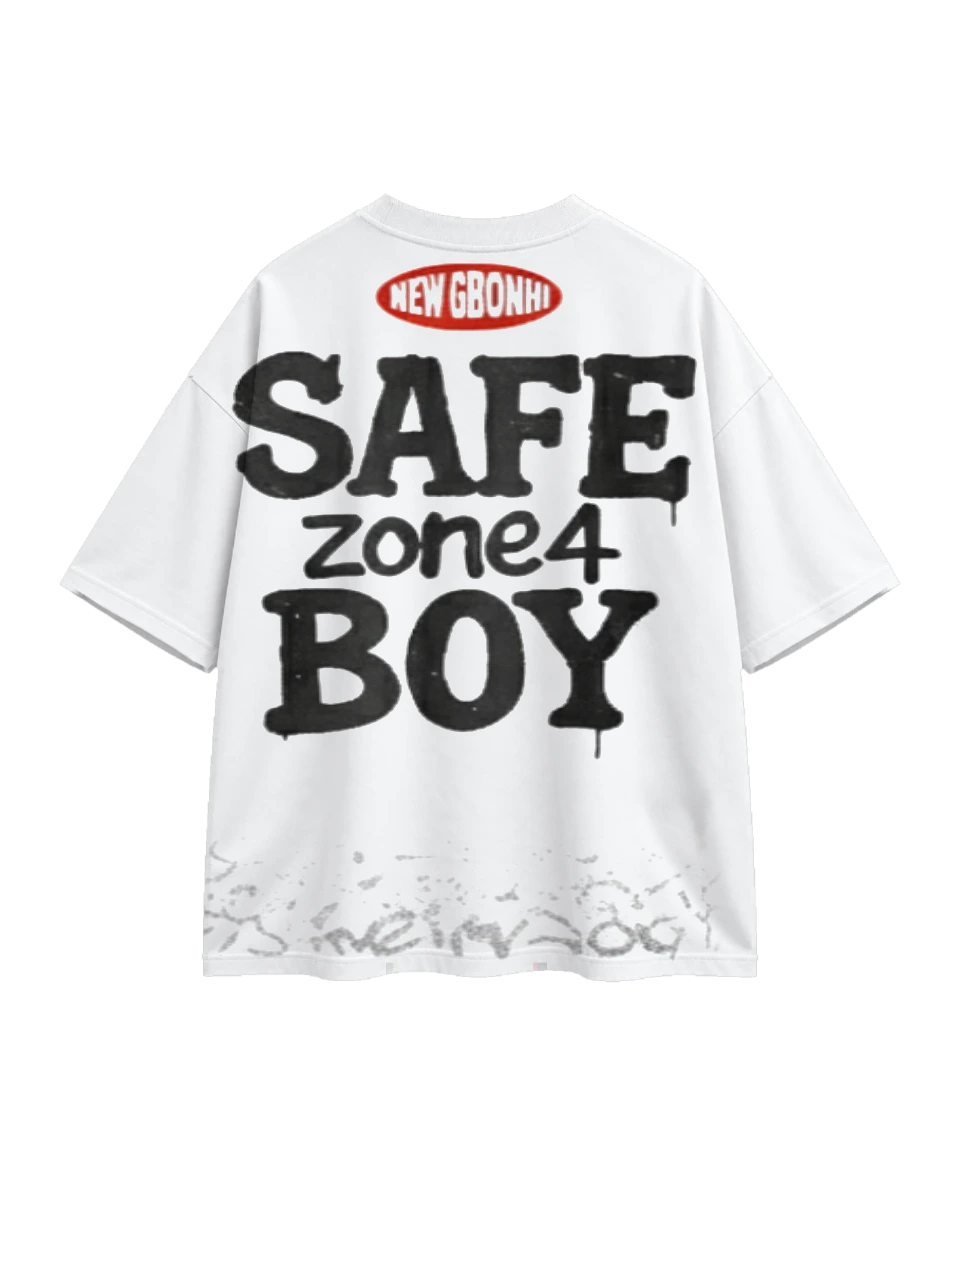
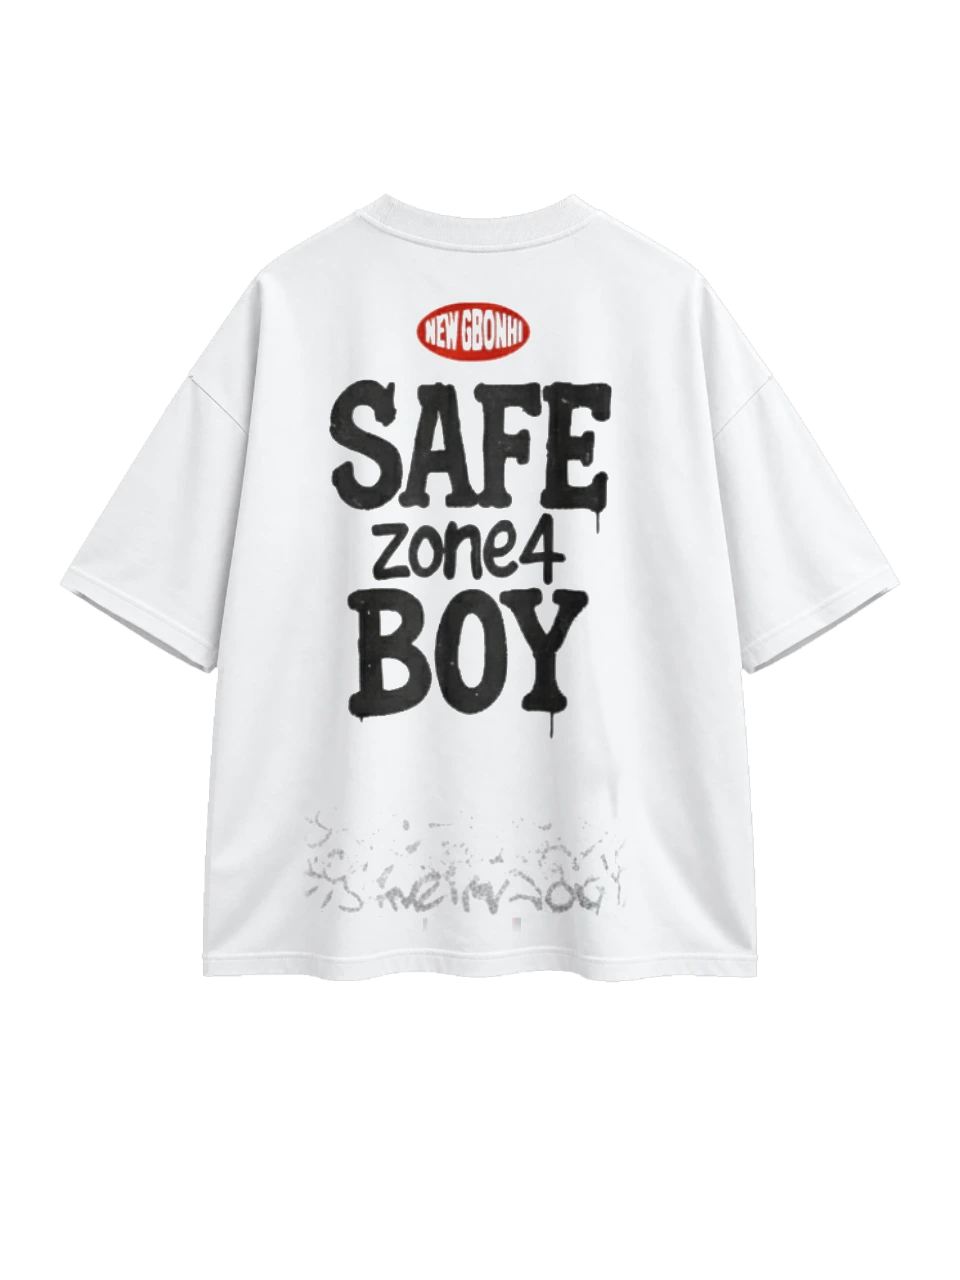
Fit Safe collection artwork to cotton mockups without stretching

Changed region(s): [[0.2188, 0.1875, 0.75, 0.5938], [0.2188, 0.6562, 0.7188, 0.75]]

diff --git a/src/components/garmentPrint.js b/src/components/garmentPrint.js
@@ -5,45 +5,49 @@ import * as THREE from 'three';
 export function applyOriginalPrint(material, originalMap, piece) {
   const [left, top, right, bottom] = piece.printRegion;
   material.onBeforeCompile = shader => {
+    const [scaleX, scaleY] = piece.printScale || [1, 1];
+    const [centerX, centerY] = piece.printCenter || [.5, .5];
+    shader.uniforms.printPlacement = { value: new THREE.Vector4(scaleX, scaleY, centerX, 1 - centerY) };
     shader.uniforms.fabricPoint = { value: new THREE.Vector3(...(piece.fabricPoint || [0, 0]), piece.fabricPoint ? 1 : 0) };
     shader.uniforms.originalPrint = { value: originalMap };
     shader.uniforms.printRect = { value: new THREE.Vector4(left, 1 - bottom, right, 1 - top) };
     shader.uniforms.whiteCotton = { value: piece.whiteFabric ? 1 : 0 };
     shader.uniforms.cleanWhitePrint = { value: piece.cleanWhitePrint ? 1 : 0 };
     shader.uniforms.posterPrint = { value: piece.posterPrint || piece.product?.slug === 'arw-film-dopamine-tee' ? 1 : 0 };
-    shader.fragmentShader = 'uniform vec3 fabricPoint;\nuniform sampler2D originalPrint;\nuniform vec4 printRect;\nuniform float whiteCotton;\nuniform float cleanWhitePrint;\nuniform float posterPrint;\n' + shader.fragmentShader;
+    shader.fragmentShader = 'uniform vec4 printPlacement;\nuniform vec3 fabricPoint;\nuniform sampler2D originalPrint;\nuniform vec4 printRect;\nuniform float whiteCotton;\nuniform float cleanWhitePrint;\nuniform float posterPrint;\n' + shader.fragmentShader;
     shader.fragmentShader = shader.fragmentShader.replace('#include <map_fragment>', `
       #ifdef USE_MAP
         vec4 cotton = texture2D(map, vMapUv);
-        vec4 originalSample = texture2D(originalPrint, vMapUv);
+        vec2 printUv = (vMapUv - printPlacement.zw) / printPlacement.xy + vec2(.5);
+        vec4 originalSample = texture2D(originalPrint, printUv);
         vec3 sourcePrint = originalSample.rgb;
-        vec3 fabricLeft = texture2D(originalPrint, vec2(.22, vMapUv.y)).rgb;
-        vec3 fabricRight = texture2D(originalPrint, vec2(.78, vMapUv.y)).rgb;
-        vec3 originalCotton = mix(fabricLeft, fabricRight, smoothstep(.22, .78, vMapUv.x));
+        vec3 fabricLeft = texture2D(originalPrint, vec2(.22, printUv.y)).rgb;
+        vec3 fabricRight = texture2D(originalPrint, vec2(.78, printUv.y)).rgb;
+        vec3 originalCotton = mix(fabricLeft, fabricRight, smoothstep(.22, .78, printUv.x));
         originalCotton = mix(originalCotton, texture2D(originalPrint, vec2(fabricPoint.x, 1. - fabricPoint.y)).rgb, fabricPoint.z);
-        if (cleanWhitePrint > .5 && vMapUv.y < .28) {
-          vec3 nearby = max(sourcePrint, texture2D(originalPrint, vMapUv + vec2(.025, 0.)).rgb);
-          nearby = max(nearby, texture2D(originalPrint, vMapUv - vec2(.025, 0.)).rgb);
-          nearby = max(nearby, texture2D(originalPrint, vMapUv + vec2(0., .025)).rgb);
-          nearby = max(nearby, texture2D(originalPrint, vMapUv - vec2(0., .025)).rgb);
-          originalCotton = mix(nearby, originalCotton, smoothstep(.18, .28, vMapUv.y));
+        if (cleanWhitePrint > .5 && printUv.y < .28) {
+          vec3 nearby = max(sourcePrint, texture2D(originalPrint, printUv + vec2(.025, 0.)).rgb);
+          nearby = max(nearby, texture2D(originalPrint, printUv - vec2(.025, 0.)).rgb);
+          nearby = max(nearby, texture2D(originalPrint, printUv + vec2(0., .025)).rgb);
+          nearby = max(nearby, texture2D(originalPrint, printUv - vec2(0., .025)).rgb);
+          originalCotton = mix(nearby, originalCotton, smoothstep(.18, .28, printUv.y));
         }
         vec3 onWhite = cotton.rgb * sourcePrint / max(originalCotton, vec3(.12));
         vec3 onBlack = max(vec3(0.), cotton.rgb + sourcePrint - originalCotton);
-        vec2 inner = smoothstep(printRect.xy, printRect.xy + vec2(.025), vMapUv);
-        vec2 outer = vec2(1.) - smoothstep(printRect.zw - vec2(.025), printRect.zw, vMapUv);
+        vec2 inner = smoothstep(printRect.xy, printRect.xy + vec2(.025), printUv);
+        vec2 outer = vec2(1.) - smoothstep(printRect.zw - vec2(.025), printRect.zw, printUv);
         float decal = inner.x * inner.y * outer.x * outer.y;
         vec3 darkInk = originalCotton - sourcePrint;
         float whiteInk = smoothstep(.04, .14, max(darkInk.r, max(darkInk.g, darkInk.b)));
         // The archive pairs contain deep sleeve shadows. Above the faded hem
         // print, only their dark/red ink should transfer onto the new cotton.
         float cleanInk = smoothstep(.18, .35, max(darkInk.r, max(darkInk.g, darkInk.b)));
-        whiteInk = mix(whiteInk, cleanInk, cleanWhitePrint * smoothstep(.18, .28, vMapUv.y));
+        whiteInk = mix(whiteInk, cleanInk, cleanWhitePrint * smoothstep(.18, .28, printUv.y));
         float chroma = max(sourcePrint.r, max(sourcePrint.g, sourcePrint.b)) - min(sourcePrint.r, min(sourcePrint.g, sourcePrint.b));
         float lightInk = max(sourcePrint.r - originalCotton.r, max(sourcePrint.g - originalCotton.g, sourcePrint.b - originalCotton.b));
         float blackInk = max(smoothstep(.004, .016, chroma), smoothstep(.012, .045, lightInk));
         float ink = mix(blackInk, whiteInk, whiteCotton);
-        float poster = step(.315, vMapUv.x) * step(vMapUv.x, .676) * step(.25, vMapUv.y) * step(vMapUv.y, .773);
+        float poster = step(.315, printUv.x) * step(printUv.x, .676) * step(.25, printUv.y) * step(printUv.y, .773);
         decal *= max(ink, posterPrint * poster) * smoothstep(.90, .99, originalSample.a);
         diffuseColor *= vec4(mix(cotton.rgb, mix(onBlack, onWhite, whiteCotton), decal), cotton.a);
       #endif

diff --git a/scripts/catalog-renderer.js b/scripts/catalog-renderer.js
@@ -50,7 +50,14 @@ window.renderCatalogView = async id => {
   const width = 1.32, height = width / fabric.aspect;
   const geometry = new THREE.PlaneGeometry(width, height);
   const material = new THREE.MeshBasicMaterial({ map: fabric.map, transparent: true, toneMapped: false });
-  applyOriginalPrint(material, original.map, view);
+  // Archive mockups are tall and narrow. Preserve the physical proportions of
+  // their original ink instead of stretching it to the oversized cotton UVs.
+  const printSizing = view.printSizing;
+  applyOriginalPrint(material, original.map, {
+    ...view,
+    printScale: printSizing ? [printSizing.scale * original.aspect / fabric.aspect, printSizing.scale] : [1, 1],
+    printCenter: printSizing?.center,
+  });
   const mesh = new THREE.Mesh(geometry, material);
   mesh.position.y = .70 - height / 2;
   const scene = new THREE.Scene(); scene.add(mesh);

diff --git a/docs/showroom-cotton-assets.md b/docs/showroom-cotton-assets.md
@@ -9,6 +9,12 @@ The catalog exports are generated reproducibly with `scripts/bake-catalog.mjs` w
 
 Additional blank assets and full prompts:
 
+Safe Boy and Safe Babi Girl use `printSizing` in the catalog manifest. The
+renderer fits their original artwork with its source width/height ratio, at
+88% height on the back and 90% on the front. This leaves fabric around the
+print and prevents the narrow archive designs stretching across the wider
+oversized cotton bases. The garment itself keeps its size and silhouette.
+
 ### cotton-back-black.webp
 
 Product mockup asset for an existing clothing catalog. Photorealistic professional apparel photograph, isolated on a genuinely transparent background. Full garment, centered straight-on view, suspended on a concealed hanger, no visible hanger or hook. Match the supplied cotton mockup's matte fabric quality, natural broad draping folds, realistic fine knit fibers, soft neutral studio light, subtle stitching and hems, clean edges without white halos. Absolutely BLANK: no logos, artwork, letters, prints, labels or background. No props, no floor, no external cast shadow. Narrow transparent margins. Preserve real wearable garment construction. Reference is the existing BLACK oversized cotton T-shirt FRONT used in this shop. Generate its matching BACK view: same black color, same cut, sleeve width, length, lighting and material. Show the rear neckline (high back neck, no front scoop, no visible inside-collar label). Entire back is blank.
